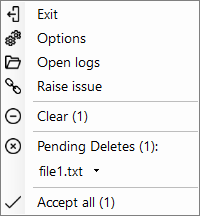
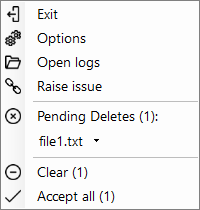
add file grouping

diff --git a/src/DiffEngineTray/MenuBuilder.cs b/src/DiffEngineTray/MenuBuilder.cs
@@ -77,38 +77,86 @@ static class MenuBuilder
 
         yield return new ToolStripSeparator();
 
+        var groups = deletes.Select(x => x.Group)
+            .Concat(moves.Select(x => x.Group))
+            .Distinct()
+            .ToList();
+
+        if (groups.Count == 1)
+        {
+            foreach (var toolStripItem in BuildMovesAndDeletes(null, tracker, deletes, moves))
+            {
+                yield return toolStripItem;
+            }
+        }
+        else
+        {
+            foreach (var group in groups)
+            {
+                foreach (var toolStripItem in BuildMovesAndDeletes(
+                    group,
+                    tracker,
+                    deletes.Where(x => x.Group == group).ToList(),
+                    moves.Where(x => x.Group == group).ToList()))
+                {
+                    yield return toolStripItem;
+                }
+            }
+        }
+
         yield return new MenuButton($"Clear ({count})", tracker.Clear, Images.Clear);
+        yield return new MenuButton($"Accept all ({count})", tracker.AcceptAll, Images.AcceptAll);
+    }
+
+    static IEnumerable<ToolStripItem> BuildMovesAndDeletes(string? name, Tracker tracker, List<TrackedDelete> deletes, List<TrackedMove> moves)
+    {
+        if (name != null)
+        {
+            yield return new MenuButton(name, null, Images.VisualStudio);
+        }
 
         if (deletes.Any())
         {
-            yield return new ToolStripSeparator();
-            yield return new MenuButton($"Pending Deletes ({deletes.Count}):", tracker.AcceptAllDeletes, Images.Delete);
+            yield return new MenuButton($"Pending Deletes ({deletes.Count}):", () => tracker.Accept(deletes), Images.Delete);
             foreach (var delete in deletes)
             {
-                var menu = new SplitButton($"{delete.Name}", () => tracker.Accept(delete));
-                menu.AddRange(
-                    new MenuButton("Accept delete", () => tracker.Accept(delete)),
-                    new MenuButton("Open directory", () => ExplorerLauncher.ShowFileInExplorer(delete.File)));
-                yield return menu;
+                yield return BuildDelete(delete, () => tracker.Accept(delete));
             }
         }
 
         if (moves.Any())
         {
-            yield return new ToolStripSeparator();
-            yield return new MenuButton($"Pending Moves ({moves.Count}):", tracker.AcceptAllMoves, Images.Accept);
+            yield return new MenuButton($"Pending Moves ({moves.Count}):", () => tracker.Accept(moves), Images.Accept);
             foreach (var move in moves)
             {
-                var menu = new SplitButton($"{move.Name} ({move.Extension})", () => tracker.Accept(move));
-                menu.AddRange(
-                    new MenuButton("Accept move", () => tracker.Accept(move)),
-                    new MenuButton("Open diff tool", () => DiffToolLauncher.Launch(move)),
-                    new MenuButton("Open directory", () => ExplorerLauncher.ShowFileInExplorer(move.Temp)));
-                yield return menu;
+                yield return BuildMove(move, () => tracker.Accept(move));
             }
         }
 
         yield return new ToolStripSeparator();
-        yield return new MenuButton($"Accept all ({count})", tracker.AcceptAll, Images.AcceptAll);
+    }
+
+    static ToolStripItem BuildDelete(TrackedDelete delete, Action accept)
+    {
+        var menu = new SplitButton($"{delete.Name}", accept);
+        menu.AddRange(
+            new MenuButton("Accept delete", accept),
+            BuildShowInExplorer(delete.File));
+        return menu;
+    }
+
+    static ToolStripItem BuildMove(TrackedMove move, Action accept)
+    {
+        var menu = new SplitButton($"{move.Name} ({move.Extension})", accept);
+        menu.AddRange(
+            new MenuButton("Accept move", accept),
+            new MenuButton("Open diff tool", () => DiffToolLauncher.Launch(move)),
+            BuildShowInExplorer(move.Temp));
+        return menu;
+    }
+
+    static MenuButton BuildShowInExplorer(string file)
+    {
+        return new MenuButton("Open directory", () => ExplorerLauncher.ShowFileInExplorer(file));
     }
 }

diff --git a/src/DiffEngineTray/Tracker.cs b/src/DiffEngineTray/Tracker.cs
@@ -114,7 +114,8 @@ class Tracker :
                     ProcessEx.TryGet(processId.Value, out process);
                 }
 
-                return new TrackedMove(temp, key, exe, arguments, canKill, process);
+                var solutionName = SolutionDirectoryFinder.Find(key);
+                return new TrackedMove(temp, key, exe, arguments, canKill, process, solutionName);
             },
             updateValueFactory: (key, existing) =>
             {
@@ -129,7 +130,8 @@ class Tracker :
                     ProcessEx.TryGet(processId.Value, out process);
                 }
 
-                return new TrackedMove(temp, key, exe, arguments, canKill, process);
+                var solutionName = SolutionDirectoryFinder.Find(key);
+                return new TrackedMove(temp, key, exe, arguments, canKill, process, solutionName);
             });
     }
 
@@ -137,7 +139,11 @@ class Tracker :
     {
         return deletes.AddOrUpdate(
             file,
-            addValueFactory: key => new TrackedDelete(key),
+            addValueFactory: key =>
+            {
+                var solutionName = SolutionDirectoryFinder.Find(key);
+                return new TrackedDelete(key, solutionName);
+            },
             updateValueFactory: (s, existing) => existing);
     }
 
@@ -146,6 +152,28 @@ class Tracker :
         if (deletes.Remove(delete.File, out var removed))
         {
             File.Delete(removed.File);
+        }
+    }
+
+    public void Accept(IEnumerable<TrackedDelete> toAccept)
+    {
+        foreach (var delete in toAccept)
+        {
+            if (deletes.Remove(delete.File, out var removed))
+            {
+                File.Delete(removed.File);
+            }
+        }
+    }
+
+    public void Accept(IEnumerable<TrackedMove> toAccept)
+    {
+        foreach (var move in toAccept)
+        {
+            if (moves.Remove(move.Target, out var removed))
+            {
+                InnerMove(removed);
+            }
         }
     }
 

diff --git a/src/DiffEngineTray/SolutionDirectoryFinder.cs b/src/DiffEngineTray/SolutionDirectoryFinder.cs
@@ -1,28 +1,51 @@
 using System;
 using System.Collections.Concurrent;
-using System.Diagnostics.CodeAnalysis;
 using System.IO;
 using System.Linq;
 
 static class SolutionDirectoryFinder
 {
-    static ConcurrentDictionary<string, string?> cache = new ConcurrentDictionary<string, string?>(StringComparer.OrdinalIgnoreCase);
-
-    public static bool TryFind(string file, [NotNullWhen(true)] out string? path)
+    class Result
     {
-        path = cache.GetOrAdd(file, Inner);
-        return path != null;
+        public string Directory { get; }
+        public string Name { get; }
+
+        public Result(string directory, string name)
+        {
+            Directory = directory;
+            Name = name;
+        }
     }
 
-    static string? Inner(string file)
+    static ConcurrentDictionary<string, Result?> cache = new ConcurrentDictionary<string, Result?>(StringComparer.OrdinalIgnoreCase);
+
+    public static string? Find(string file)
     {
-        var currentDirectory = Path.GetDirectoryName(file)!;
+        return cache.GetOrAdd(file, Inner)?.Name;
+    }
+
+    static Result? Inner(string file)
+    {
+        foreach (var result in cache.Values.Where(x => x != null))
+        {
+            if (file.StartsWith(result!.Directory))
+            {
+                return result;
+            }
+        }
+
+        var currentDirectory = Path.GetDirectoryName(file);
+        if (string.IsNullOrEmpty(currentDirectory))
+        {
+            return null;
+        }
+
         do
         {
             var solutions = Directory.GetFiles(currentDirectory, "*.sln");
             if (solutions.Any())
             {
-                return Path.GetFileNameWithoutExtension(solutions.First());
+                return new Result(currentDirectory, Path.GetFileNameWithoutExtension(solutions.First()));
             }
 
             var parent = Directory.GetParent(currentDirectory);

diff --git a/src/DiffEngineTray.Tests/MenuBuilderTest.cs b/src/DiffEngineTray.Tests/MenuBuilderTest.cs
@@ -47,14 +47,26 @@ public class MenuBuilderTest :
         await Verifier.Verify(menu, settings);
     }
 
+    [Fact]
+    public async Task FullGrouped()
+    {
+        await using var tracker = new RecordingTracker();
+        tracker.AddDelete(file1);
+        tracker.AddDelete("bar.txt");
+        tracker.AddMove(file3, file3, "theExe", "theArguments", true, null);
+        tracker.AddMove(file4, "foo.txt", "theExe", "theArguments", true, null);
+        var menu = MenuBuilder.Build(() => { }, () => { }, tracker);
+        await Verifier.Verify(menu, settings);
+    }
+
     public MenuBuilderTest(ITestOutputHelper output) :
         base(output)
     {
         settings = new VerifySettings();
-        file1 = "file1.txt";
-        file2 = "file2.txt";
-        file3 = "file3.txt";
-        file4 = "file4.txt";
+        file1 = Path.GetFullPath("file1.txt");
+        file2 = Path.GetFullPath("file2.txt");
+        file3 = Path.GetFullPath("file3.txt");
+        file4 = Path.GetFullPath("file4.txt");
         File.WriteAllText(file1, "");
         File.WriteAllText(file2, "");
         File.WriteAllText(file3, "");

diff --git a/src/DiffEngineTray/Images/Images.cs b/src/DiffEngineTray/Images/Images.cs
@@ -19,6 +19,8 @@ public static class Images
         Accept = Image.FromStream(acceptStream);
         using var clearStream = Resource.AsStream("clear.png");
         Clear = Image.FromStream(clearStream);
+        using var vsStream = Resource.AsStream("vs.png");
+        VisualStudio = Image.FromStream(vsStream);
         using var folderStream = Resource.AsStream("folder.png");
         Folder = Image.FromStream(folderStream);
         using var optionsStream = Resource.AsStream("cogs.png");
@@ -27,6 +29,7 @@ public static class Images
         Link = Image.FromStream(linkStream);
     }
 
+    public static Image VisualStudio { get; }
     public static Image Link { get; }
     public static Image Clear { get; }
     public static Image Accept { get; }

diff --git a/src/DiffEngineTray/TrackedMove.cs b/src/DiffEngineTray/TrackedMove.cs
@@ -9,7 +9,8 @@ class TrackedMove
         string exe,
         string arguments,
         bool canKill,
-        Process? process)
+        Process? process,
+        string? group)
     {
         Temp = temp;
         Target = target;
@@ -19,6 +20,7 @@ class TrackedMove
         Extension = Path.GetExtension(target).TrimStart('.');
         CanKill = canKill;
         Process = process;
+        Group = group;
     }
 
     public string Extension { get; }
@@ -29,4 +31,5 @@ class TrackedMove
     public string Arguments { get; }
     public bool CanKill { get; }
     public Process? Process { get; set; }
+    public string? Group { get; }
 }

diff --git a/src/DiffEngineTray.Tests/SolutionDirectoryFinderTest.cs b/src/DiffEngineTray.Tests/SolutionDirectoryFinderTest.cs
@@ -13,9 +13,8 @@ public class SolutionDirectoryFinderTests :
     }
 
     [Fact]
-    public async Task TryFind()
+    public Task Find()
     {
-        var found = SolutionDirectoryFinder.TryFind(SourceFile, out var path);
-        await Verifier.Verify(new {found, path});
+        return Verifier.Verify(SolutionDirectoryFinder.Find(SourceFile));
     }
 }

diff --git a/src/DiffEngineTray/TrackedDelete.cs b/src/DiffEngineTray/TrackedDelete.cs
@@ -2,12 +2,14 @@ using System.IO;
 
 class TrackedDelete
 {
-    public TrackedDelete(string file)
+    public TrackedDelete(string file, string? group)
     {
         File = file;
+        Group = group;
         Name = Path.GetFileName(file);
     }
 
     public string Name { get; }
     public string File { get; }
+    public string? Group { get; }
 }
